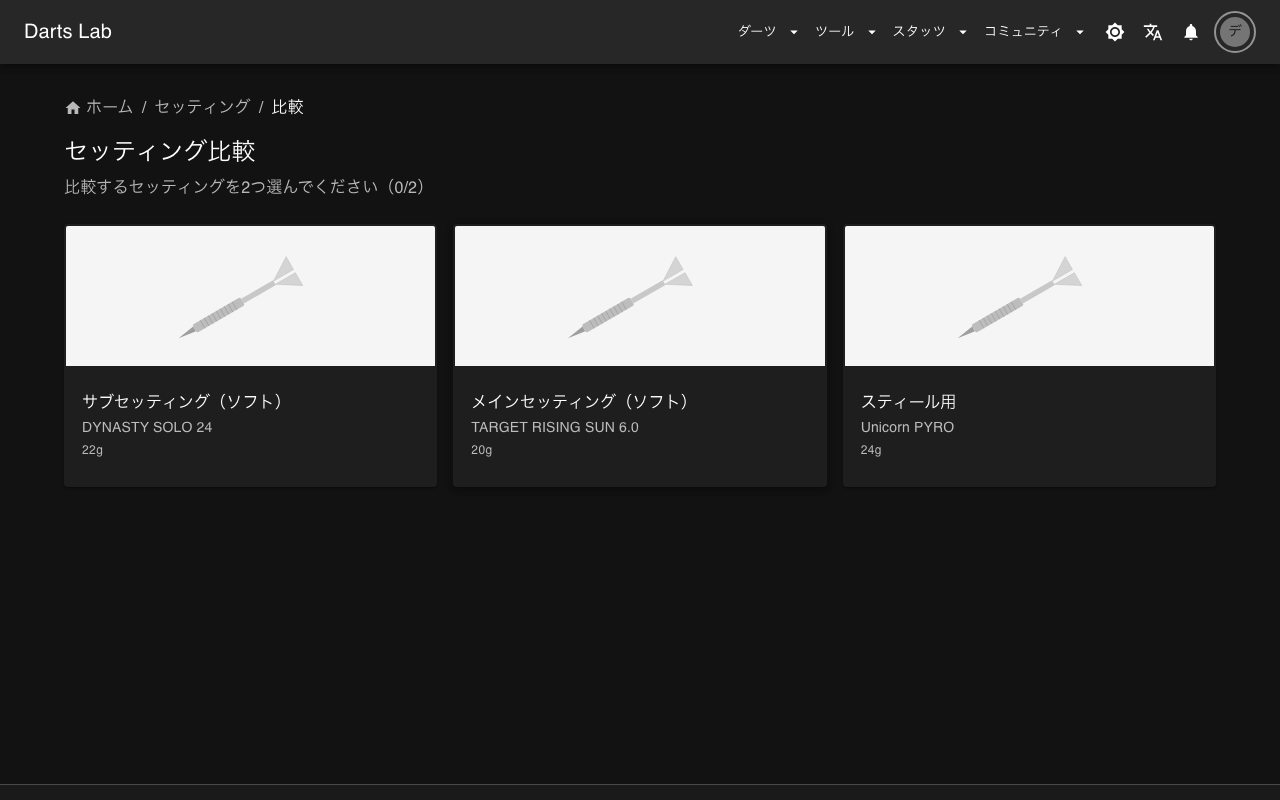
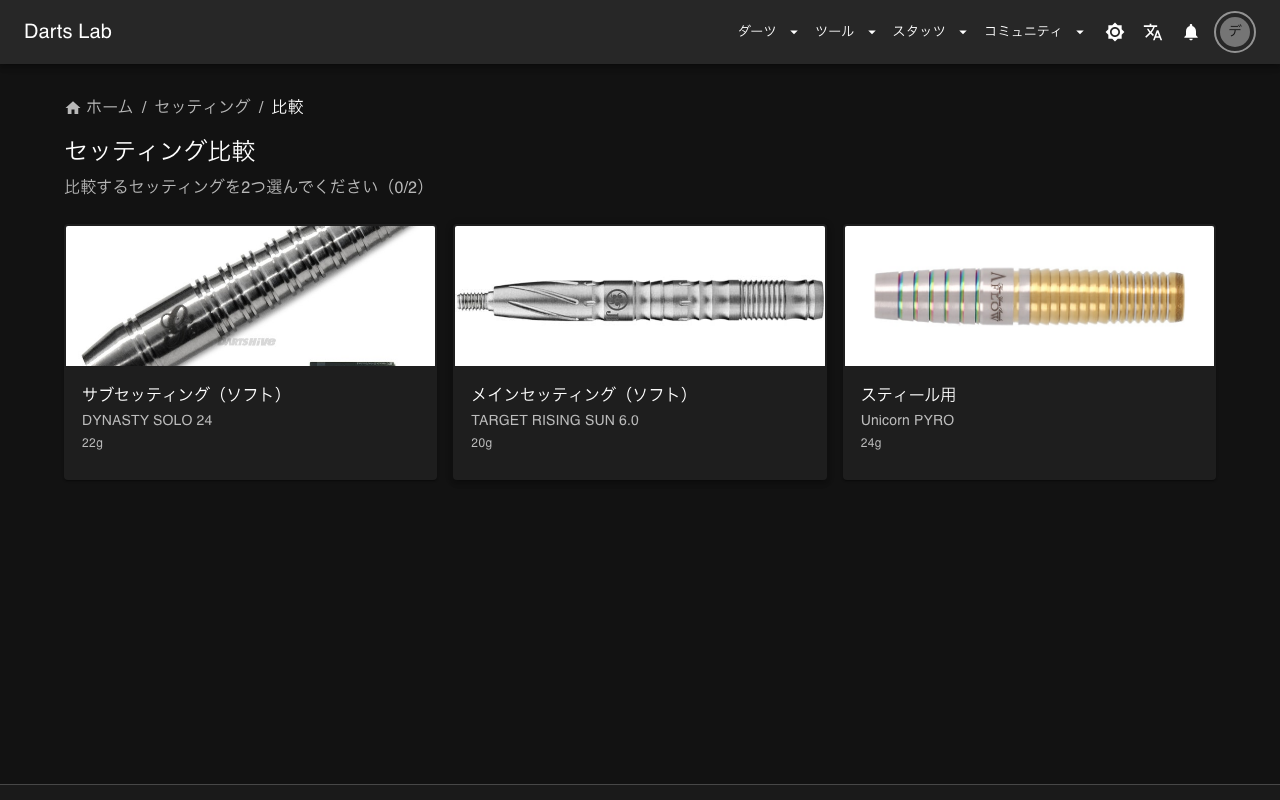
chore: reset-demoのデバッグ出力を削除 + スクリーンショット更新
- normalizeBarrelImageUrl関数とdebug出力を削除
- 画像付きの最新スクリーンショット14枚を更新

diff --git a/app/api/cron/reset-demo/route.ts b/app/api/cron/reset-demo/route.ts
@@ -191,15 +191,6 @@ function getCacheLatest() {
   };
 }
 
-/** バレル画像URLを表示可能な形式に正規化（wsrv.nlプロキシ経由） */
-function normalizeBarrelImageUrl(raw: string): string {
-  let url = raw;
-  if (url.startsWith('//')) url = `https:${url}`;
-  if (url.startsWith('/')) url = `https://www.dartshive.jp${url}`;
-  url = url.replace(/^http:\/\//, 'https://');
-  return `https://wsrv.nl/?url=${encodeURIComponent(url)}&n=-1`;
-}
-
 /** バレルコレクションから画像付きバレルを取得（ダーツ画像・ブックマーク用） */
 async function fetchRealBarrels(limit: number) {
   const snap = await adminDb.collection('barrels').where('imageUrl', '!=', null).limit(limit).get();
@@ -210,16 +201,15 @@ async function fetchRealBarrels(limit: number) {
     })
     .map((d) => {
       const raw = (d.data().imageUrl as string) || '';
-      // プロトコル相対URL・相対パスをフルHTTPSに変換（wsrv.nlプロキシなし）
+      // プロトコル相対URL・相対パスをフルHTTPSに変換
       let url = raw;
       if (url.startsWith('//')) url = `https:${url}`;
       if (url.startsWith('/')) url = `https://www.dartshive.jp${url}`;
       url = url.replace(/^http:\/\//, 'https://');
-      // /api/proxy-image 経由でsame-originとして配信（CSP・CORS問題を回避）
+      // /api/proxy-image 経由でsame-originとして配信（CSP問題を回避）
       const proxyUrl = `/api/proxy-image?url=${encodeURIComponent(url)}`;
       return {
         id: d.id,
-        rawImageUrl: raw,
         imageUrl: proxyUrl,
         name: (d.data().name as string) || '',
         brand: (d.data().brand as string) || '',
@@ -354,16 +344,5 @@ export async function GET(request: NextRequest) {
     }
   }
 
-  return NextResponse.json({
-    results,
-    debug: {
-      realBarrelsCount: realBarrels.length,
-      realBarrels: realBarrels.map((b) => ({
-        id: b.id,
-        rawImageUrl: b.rawImageUrl,
-        normalizedImageUrl: b.imageUrl,
-        name: b.name,
-      })),
-    },
-  });
+  return NextResponse.json({ results });
 }
